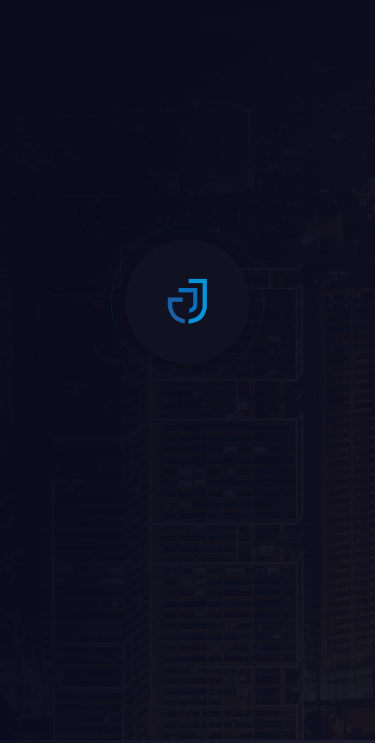
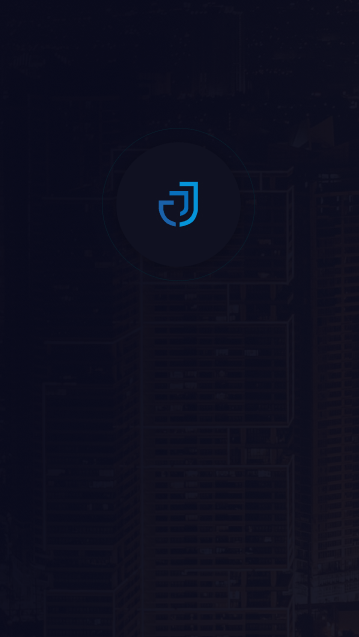
deving up

Changed region(s): [[0.429, 0.2684, 0.5515, 0.4474]]

diff --git a/src/index.scss b/src/index.scss
@@ -745,7 +745,7 @@ ul {
   .hero {
     background: none;
     background-image: url("../public/images/mobileBgHero.png") !important;
-    height: 100vh;
+    height: 80vh;
     background-repeat: no-repeat;
     background-size: cover;
 
@@ -753,7 +753,7 @@ ul {
       position: relative;
       width: 100%;
       height: 108px;
-      top: 309px;
+      top: 230px;
     }
   }
 

diff --git a/src/App.js b/src/App.js
@@ -29,7 +29,6 @@ function App() {
       <OurWorkProcess/>
       <ContactUs /> 
       <ScrollToTop smooth color="white" className="bg-transparent"/>
-
       <Footer />
     </div>
   );
